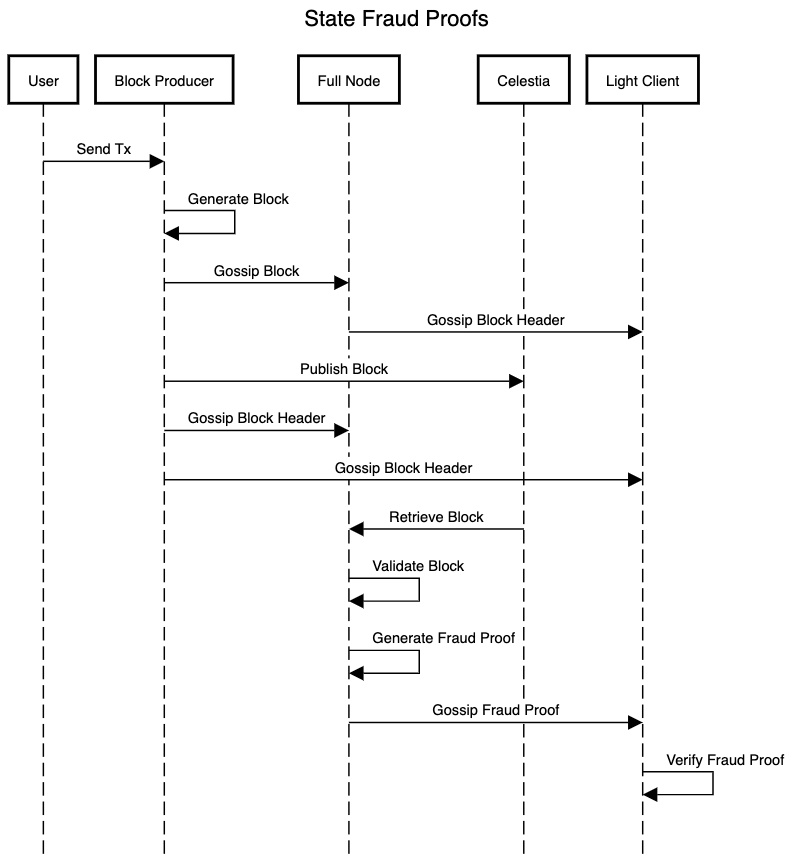
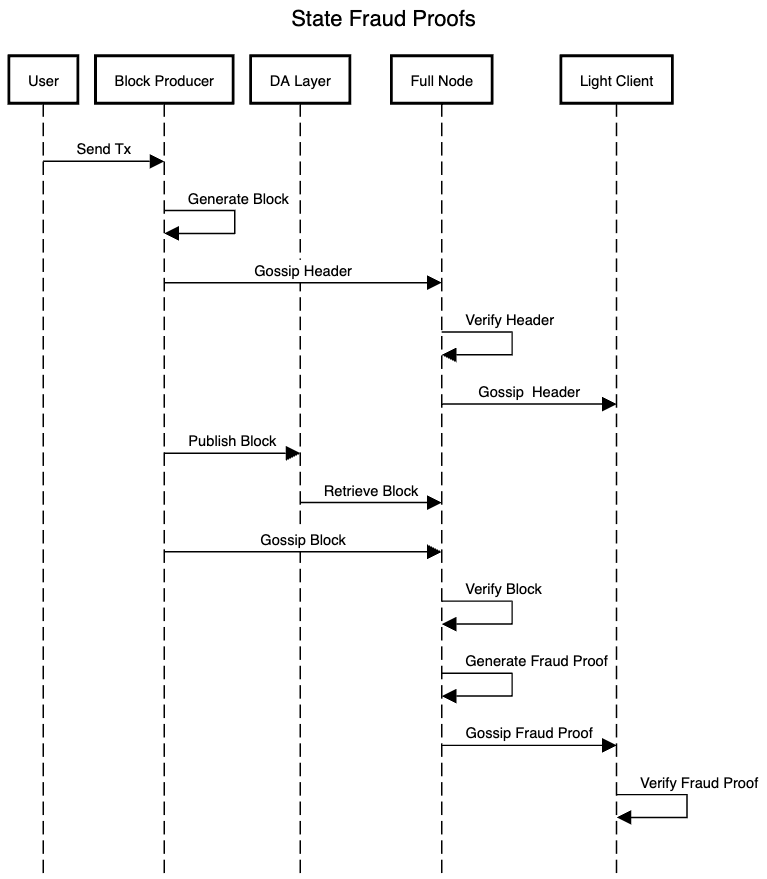
Update diagram

diff --git a/docs/lazy-adr/adr-009-state-fraud-proofs.md b/docs/lazy-adr/adr-009-state-fraud-proofs.md
@@ -179,7 +179,7 @@ There are four stages of verification that must occur for a Fraud Proof. The fir
 
 #### **Stage One**
 
-Verify that both the `appHash` (ISR) and the fraudulent state transition in the `FraudProof` exist as part of a block published on the DA layer within a specified fraud proof window. This involves verifying that share containing the block is posted on Celestia via a Blob Inclusion Proof.
+Verify that both the `appHash` (ISR) and the fraudulent state transition in the `FraudProof` exist as part of a block published on the DA layer within a specified fraud proof window. This involves verifying that the blob corresponding to the block is posted on the DA layer via a Blob Inclusion Proof and verifying the share(s) containing the fraudulent state transition and `appHash` were part of that blob via Share Inclusion Proof(s).
 
 #### **Stage Two**
 
@@ -248,7 +248,7 @@ Proposed
 A prototype implementation of the above design is available in the following working branches:
 
 - [Rollkit](https://github.com/rollkit/rollkit/releases/tag/v0.6.0): Contains fraud proof detection and gossiping logic. As fraud proofs are currently a work in progress, this logic can be toggled using a flag `--rollkit.experimental_insecure_fraud_proofs`. By default, this flag is set to `false`.
-- [Cosmos-SDK](https://github.com/rollkit/cosmos-sdk/tree/manav/fraudproof_iavl_prototype): Implements the new ABCI methods described.
+- [Cosmos-SDK](https://github.com/rollkit/cosmos-sdk-old/tree/manav/fraudproof_iavl_prototype): Implements the new ABCI methods described.
 - [Tendermint](https://github.com/rollkit/tendermint/tree/abci_fraud_proofs): Contains modifications to the ABCI interface described.
 - [IAVL](https://github.com/rollkit/iavl/tree/deepsubtrees_0.19.x): Adds support for Deep Subtrees and tracing.
 
